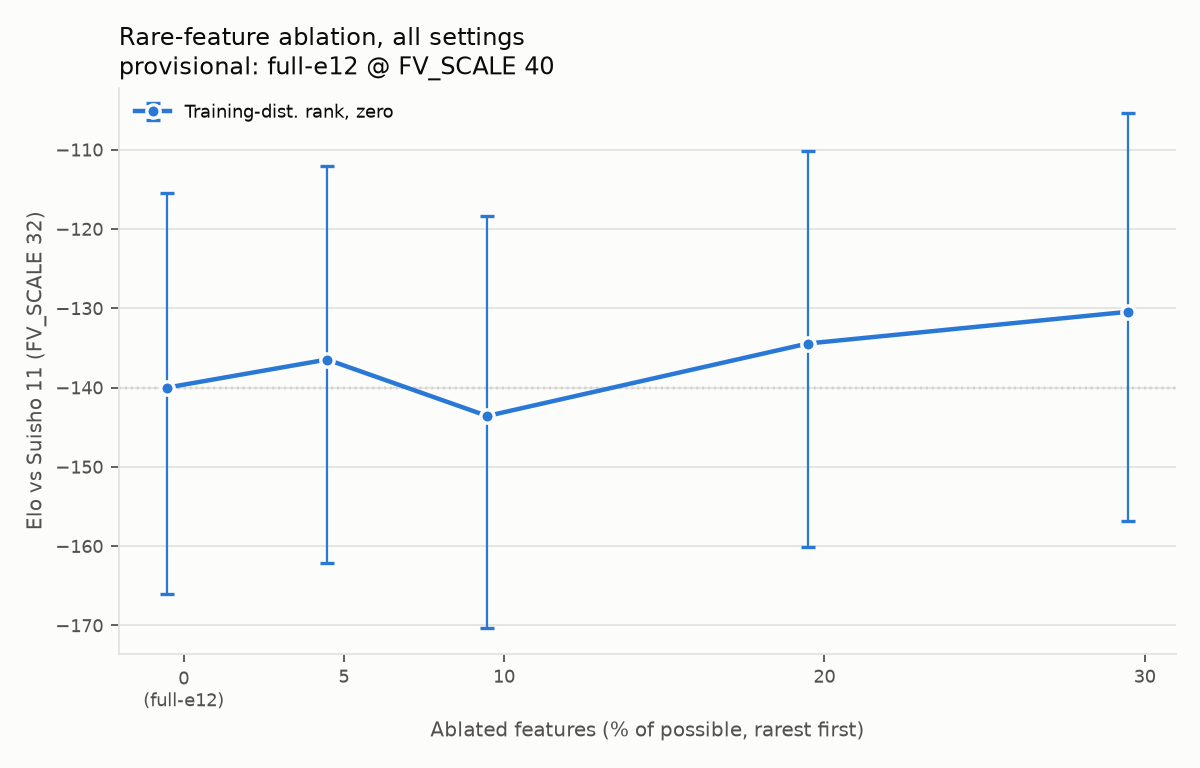
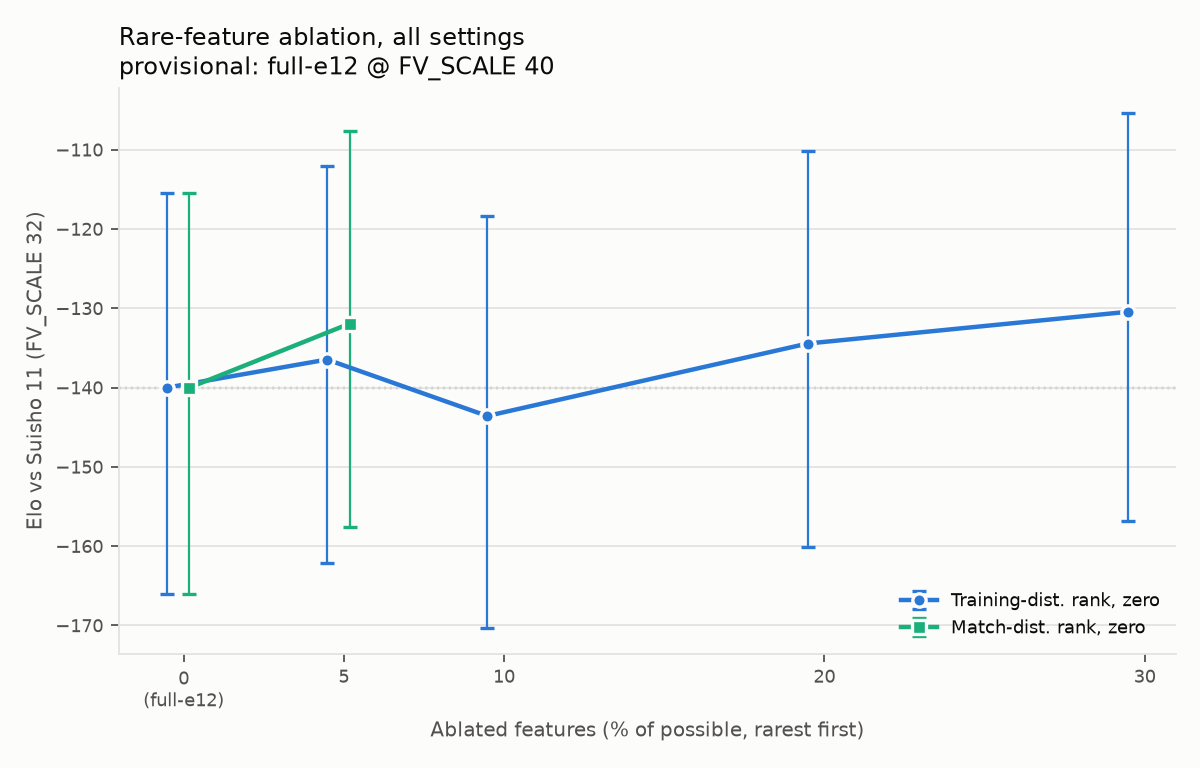
exp: 009 results — figures and results.md (auto)
Claude-Session: https://claude.ai/code/session_01YJdawcYFSvVniYuyJpM5c4

diff --git a/experiments/009-data-scaling/notes/results.md b/experiments/009-data-scaling/notes/results.md
@@ -14,5 +14,7 @@ full と同じ棋譜になり、同じ開始局面どうしの差は対応のあ
 | 教師 | zero | 10 | -143.6 | [-170, -118] | -140.0 | 400 | 190 |
 | 教師 | zero | 20 | -134.4 | [-160, -110] | -140.0 | 400 | 257 |
 | 教師 | zero | 30 | -130.4 | [-157, -105] | -140.0 | 400 | 238 |
+| 対局 | zero | 5 | -131.9 | [-158, -108] | -140.0 | 400 | 119 |
 
 ![Training-dist. rank, zero](../figures/ablation_teach_zs.png)
+![Match-dist. rank, zero](../figures/ablation_match_zs.png)
